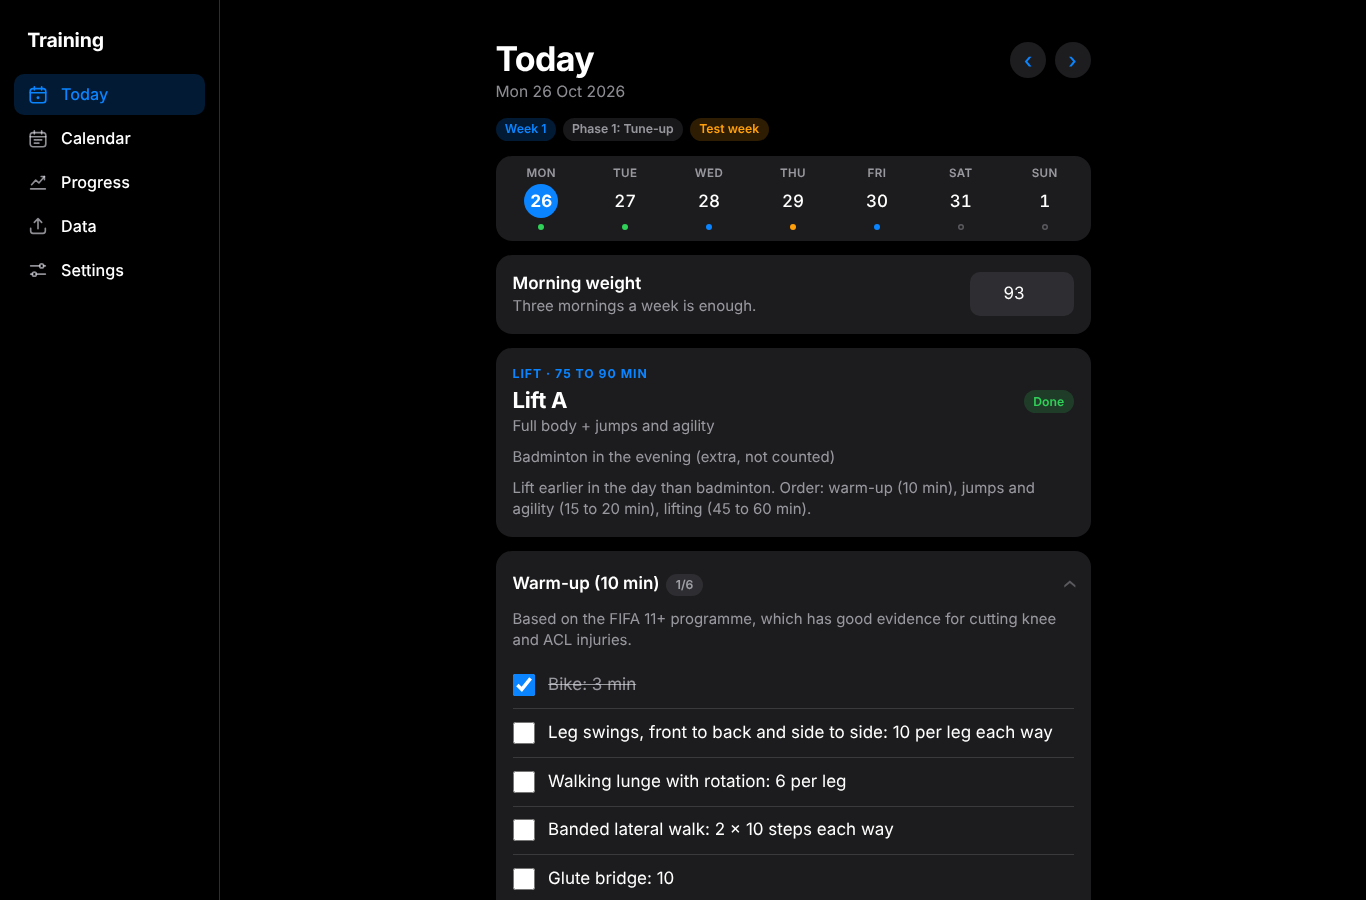
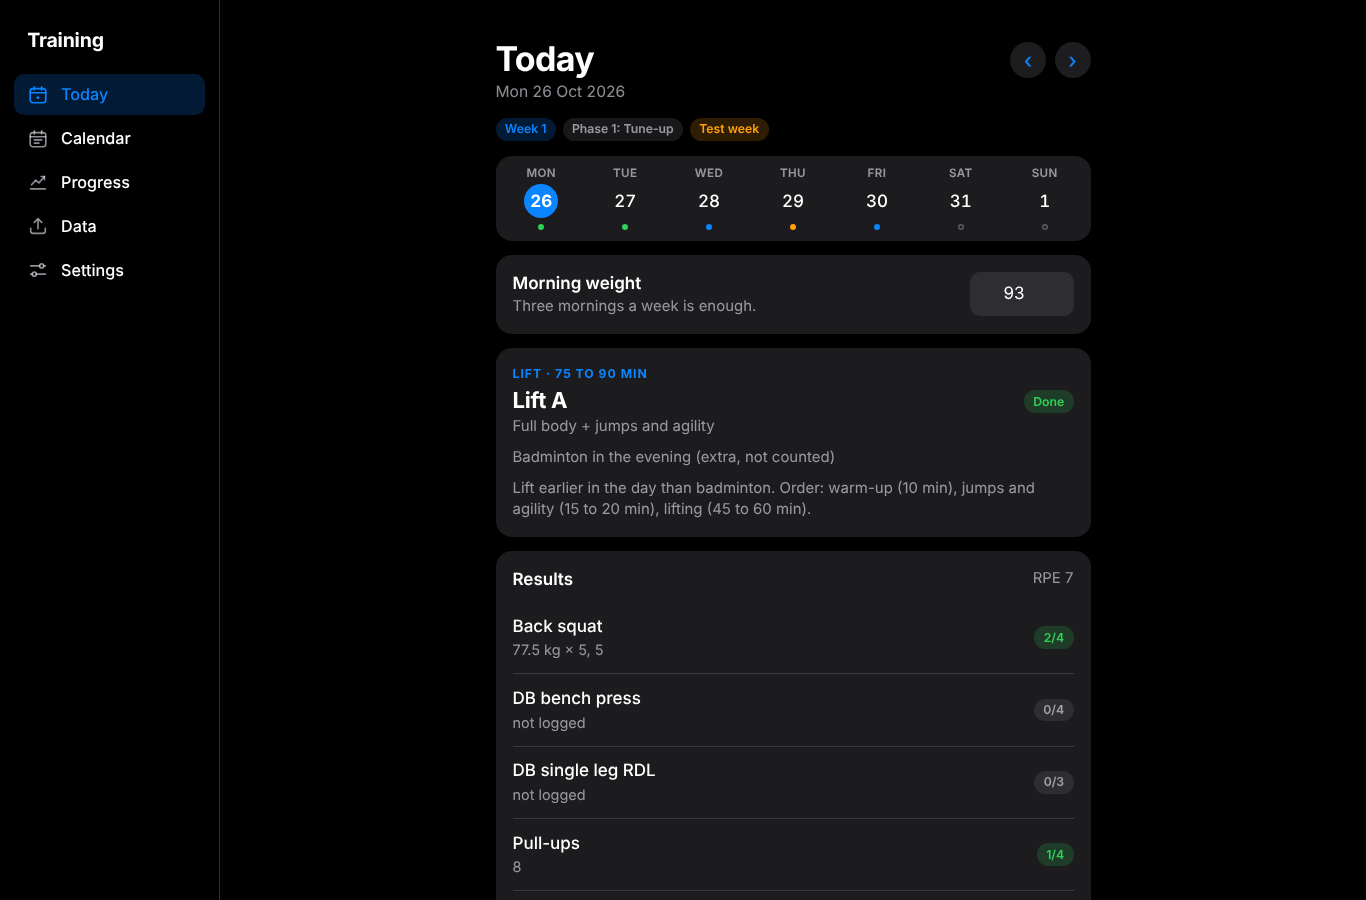
Start, log, finish and edit lifting workouts
A lifting day opens as an overview: the plan with targets and last
time's numbers, plus a Start workout button. Starting the workout
records started_at and switches to logging with a running workout
timer next to the rest timer. Finish workout stores finished_at and
the duration and shows a results summary per lift; Edit workout
reopens logging for corrections and Done editing returns to the
summary.

Ticks now toggle: unticking keeps the numbers but marks the set as a
draft (done 0). Typing saves a draft without ticking, so a half-typed
set survives a reload. Server-side queries only count done sets.

The browser test cleans up the test day first and checks the whole
flow, including untick persistence and the summary.

Claude-Session: https://claude.ai/code/session_01MEVMmuCGieuXpFXdC3wJAt

diff --git a/public/js/views/today.js b/public/js/views/today.js
@@ -46,6 +46,7 @@ class DayView {
     this.rows = {};
     this.lastTick = null;
     this.timer = null;
+    this.editing = false; // a finished workout opened for corrections
     this.initRows();
     this.saveWorkoutDebounced = debounce((patch) => this.saveWorkout(patch), 600);
   }
@@ -57,7 +58,7 @@ class DayView {
     this.rows = {};
     for (const e of this.plan) {
       const existing = sets.filter((s) => s.exercise_key === e.key).sort((a, b) => a.set_index - b.set_index || a.id - b.id);
-      const rows = existing.map((s) => ({ client_id: s.client_id, set_index: s.set_index, kg: s.weight_kg, reps: s.reps, seconds: s.seconds, meters: s.distance_m, saved: true }));
+      const rows = existing.map((s) => ({ client_id: s.client_id, set_index: s.set_index, kg: s.weight_kg, reps: s.reps, seconds: s.seconds, meters: s.distance_m, saved: isDone(s), touched: true }));
       while (rows.length < e.sets) rows.push({ client_id: uuid(), set_index: rows.length, kg: null, reps: null, seconds: null, meters: null, saved: false });
       this.rows[e.key] = rows;
     }
@@ -67,7 +68,7 @@ class DayView {
       this.rows[s.exercise_key] = [];
     }
     for (const s of sets) if (!this.rows[s.exercise_key].some((r) => r.client_id === s.client_id)) {
-      this.rows[s.exercise_key].push({ client_id: s.client_id, set_index: s.set_index, kg: s.weight_kg, reps: s.reps, seconds: s.seconds, meters: s.distance_m, saved: true });
+      this.rows[s.exercise_key].push({ client_id: s.client_id, set_index: s.set_index, kg: s.weight_kg, reps: s.reps, seconds: s.seconds, meters: s.distance_m, saved: isDone(s), touched: true });
     }
   }
 
@@ -93,20 +94,22 @@ class DayView {
     store.set(`ft_day_${this.date}`, d);
   }
 
+  // Every row with a value, ticked or draft (done 0). Used for the cache and for rebuilding rows.
   allSets() {
     const out = [];
-    for (const [key, rows] of Object.entries(this.rows)) for (const r of rows) if (r.saved) out.push({ client_id: r.client_id, exercise_key: key, set_index: r.set_index, weight_kg: r.kg, reps: r.reps, seconds: r.seconds, distance_m: r.meters });
+    for (const [key, rows] of Object.entries(this.rows)) for (const r of rows) if (r.saved || r.touched) out.push({ client_id: r.client_id, exercise_key: key, set_index: r.set_index, weight_kg: r.kg, reps: r.reps, seconds: r.seconds, distance_m: r.meters, done: r.saved ? 1 : 0 });
     return out;
   }
+  doneSets() { return this.allSets().filter((s) => s.done); }
 
   async saveSet(key, row) {
     const ex = exerciseFor(key);
     const hasValue = ex.fields.some((f) => row[f] != null && row[f] !== "");
     if (!hasValue) return;
-    row.saved = true;
-    this.lastTick = Date.now();
+    row.touched = true;
+    if (row.saved) this.lastTick = Date.now();
     this.refreshCache();
-    const body = { date: this.date, template_key: this.templateKey, exercise_key: key, set_index: row.set_index, weight_kg: row.kg, reps: row.reps, seconds: row.seconds, distance_m: row.meters, done: 1 };
+    const body = { date: this.date, template_key: this.templateKey, exercise_key: key, set_index: row.set_index, weight_kg: row.kg, reps: row.reps, seconds: row.seconds, distance_m: row.meters, done: row.saved ? 1 : 0 };
     const r = await queuedWrite("PUT", `/api/sets/${row.client_id}`, body, `set:${row.client_id}`);
     if (r.ok && r.data && r.data.workout_id && !this.workout) {
       this.workout = { id: r.data.workout_id, template_key: this.templateKey, status: "in_progress", sets: [] };
@@ -119,7 +122,7 @@ class DayView {
     const rows = this.rows[key];
     rows.splice(rows.indexOf(row), 1);
     rows.forEach((r, i) => (r.set_index = i));
-    if (row.saved) {
+    if (row.saved || row.touched) {
       this.refreshCache();
       try { await api.del(`/api/sets/${row.client_id}`); } catch (e) { toast(e.message, true); }
     }
@@ -205,9 +208,10 @@ class DayView {
 
   statusBadge() {
     const st = this.workout ? this.workout.status : null;
-    const logged = this.allSets().length;
+    const logged = this.doneSets().length;
     if (st === "done") return h("span", { class: "badge ok" }, "Done");
     if (st === "skipped") return h("span", { class: "badge danger" }, "Skipped");
+    if (this.template.kind === "lift") return this.workout && this.workout.started_at ? h("span", { class: "badge accent" }, "In progress") : h("span", { class: "badge" }, "Not started");
     if (logged || (this.workout && this.workout.time_sec)) return h("span", { class: "badge accent" }, "In progress");
     return h("span", { class: "badge" }, "Not started");
   }
@@ -226,17 +230,83 @@ class DayView {
     if (this.day.moved && this.templateKey === this.day.templateKey) head.appendChild(h("p", { class: "muted small" }, `The plan has ${templateFor(this.day.defaultTemplateKey).name} today. You moved it.`));
     for (const x of this.day.extras || []) if (this.templateKey === this.day.templateKey) head.appendChild(h("p", { class: "muted small" }, x));
     if (t.kind === "lift") {
+      const mode = this.mode();
       if (t.tips && t.tips.length) head.appendChild(h("p", { class: "tips" }, t.tips.join(" ")));
-      cards.push(head, ...this.liftCards());
-    } else if (t.kind === "run" || t.kind === "other") {
-      this.runBody(head);
-      cards.push(head);
-    } else {
-      this.restBody(head);
-      cards.push(head);
+      if (mode === "overview") {
+        head.appendChild(h("button", { class: "btn primary wide", style: { marginTop: ".9rem" }, onClick: () => this.startWorkout() }, "Start workout"));
+        cards.push(head, this.planCard(), this.actionsCard());
+      } else if (mode === "log") {
+        head.appendChild(h("div", { class: "timer-row", dataset: { timer: "1" } }));
+        cards.push(head, ...this.liftCards(), this.finishCard(), this.actionsCard());
+      } else {
+        cards.push(head, ...this.summaryCards(), this.actionsCard());
+      }
+      return cards;
     }
-    cards.push(this.finishCard());
-    cards.push(this.actionsCard());
+    if (t.kind === "run" || t.kind === "other") this.runBody(head); else this.restBody(head);
+    cards.push(head, this.finishCard(), this.actionsCard());
+    return cards;
+  }
+
+  // overview: nothing started yet. log: started, or a finished workout opened for edits. summary: finished.
+  mode() {
+    const w = this.workout;
+    if (w && w.status === "done") return this.editing ? "log" : "summary";
+    if (w && (w.started_at || (w.sets || []).length)) return "log";
+    return "overview";
+  }
+
+  async startWorkout() {
+    const r = await this.saveWorkout({ status: "in_progress", started_at: new Date().toISOString() });
+    if (!r.ok && !r.queued) return;
+    if (!this.workout) this.workout = { template_key: this.templateKey, status: "in_progress", sets: [] };
+    this.workout.started_at = this.workout.started_at || new Date().toISOString();
+    this.refreshCache();
+    toast("Workout started");
+    this.render();
+    window.scrollTo({ top: 0 });
+  }
+
+  // What the session holds, without any inputs.
+  planCard() {
+    const t = this.template;
+    const card = h("div", { class: "card" });
+    card.appendChild(h("div", { class: "card-title" }, h("h3", null, "Plan"), h("span", { class: "muted small" }, `${this.plan.length} lifts`)));
+    const list = h("div", null);
+    const row = (title, sub, extra) => list.appendChild(h("div", { class: "list-item" }, h("div", null, h("div", { class: "title" }, title), sub ? h("div", { class: "sub" }, sub) : null), extra ? h("span", { class: "muted small" }, extra) : null));
+    if (t.blocks.includes("warmup")) row(PROGRAM.warmup.title, `${PROGRAM.warmup.items.length} drills`, `${PROGRAM.warmup.minutes} min`);
+    if (t.blocks.includes("jumps")) row(`${PROGRAM.jumps.title}, phase ${this.day.phase}`, (PROGRAM.jumps.byPhase[this.day.phase] || []).map((j) => j.name).join(", "), `${PROGRAM.jumps.minutes} min`);
+    for (const e of this.plan) {
+      const ex = exerciseFor(e.key);
+      const last = this.data.last[e.key];
+      const target = e.sets ? `${e.sets} × ${e.reps}${e.sets !== e.plannedSets && e.plannedSets ? " (deload)" : ""}` : "";
+      row(ex.name, [target, last ? `last ${describeSets(ex, last.sets)}` : e.startKg ? `start around ${e.startKg} kg` : null].filter(Boolean).join(" · "));
+    }
+    if (t.blocks.includes("finisher") && t.finisher) row(t.finisher.title, t.finisher.text, `${t.finisher.minutes} min`);
+    card.appendChild(list);
+    return card;
+  }
+
+  // Finished workout: results per lift, duration, notes, and a way back in to fix mistakes.
+  summaryCards() {
+    const w = this.workout;
+    const cards = [];
+    const card = h("div", { class: "card" });
+    const dur = w.duration_min || minutesBetween(w.started_at, w.finished_at);
+    card.appendChild(h("div", { class: "card-title" }, h("h3", null, "Results"), h("span", { class: "muted small" }, [dur ? `${dur} min` : null, w.rpe ? `RPE ${w.rpe}` : null].filter(Boolean).join(" · "))));
+    const done = this.doneSets();
+    const list = h("div", null);
+    for (const e of this.plan) {
+      const ex = exerciseFor(e.key);
+      const sets = done.filter((s) => s.exercise_key === e.key).sort((a, b) => a.set_index - b.set_index);
+      list.appendChild(h("div", { class: "list-item" }, h("div", null, h("div", { class: "title" }, ex.name), h("div", { class: "sub" }, sets.length ? describeSets(ex, sets) : "not logged")), h("span", { class: `badge ${sets.length ? "ok" : ""}` }, `${sets.length}${e.sets ? `/${e.sets}` : ""}`)));
+    }
+    card.appendChild(list);
+    const blocks = ["warmup", "jumps", "finisher"].filter((b) => this.template.blocks.includes(b) && this.checklist[b]);
+    if (blocks.length) card.appendChild(h("p", { class: "muted small", style: { margin: ".8rem 0 0" } }, blocks.map((b) => `${b === "warmup" ? "Warm-up" : b === "jumps" ? "Jumps" : "Finisher"} ${Object.values(this.checklist[b]).filter(Boolean).length} ticked`).join(" · ")));
+    if (w.notes) card.appendChild(h("p", { style: { margin: ".8rem 0 0" } }, w.notes));
+    card.appendChild(h("button", { class: "btn tinted wide", style: { marginTop: "1rem" }, onClick: () => { this.editing = true; this.render(); } }, "Edit workout"));
+    cards.push(card);
     return cards;
   }
 
@@ -309,7 +379,7 @@ class DayView {
       h("button", { class: "btn text muted", onClick: async () => {
         const row = rows[rows.length - 1];
         if (!row) return;
-        if (row.saved && !confirm("Remove the last logged set?")) return;
+        if ((row.saved || row.touched) && !confirm("Remove the last logged set?")) return;
         await this.deleteSet(e.key, row);
         rowsEl.lastChild && rowsEl.removeChild(rowsEl.lastChild);
       } }, "Remove set")));
@@ -346,6 +416,14 @@ class DayView {
       rowEl.appendChild(h("div", { class: "cell" }, inp, h("span", { class: "unit" }, FIELD_META[f].label)));
     }
     tick.addEventListener("click", () => {
+      if (row.saved) {
+        // Untick: keep the numbers, mark the set as not done.
+        row.saved = false;
+        tick.classList.remove("done");
+        save.flush();
+        this.updateStatusBadge();
+        return;
+      }
       // Empty fields take the placeholder (last time or previous set), then the set is saved.
       for (const f of fields) {
         if (row[f] == null || row[f] === "") {
@@ -354,6 +432,7 @@ class DayView {
         }
       }
       if (!fields.some((f) => row[f] != null && row[f] !== "")) { toast("Type the numbers first"); return; }
+      row.saved = true;
       save.flush();
       tick.classList.add("done");
       // Update placeholders of the next row.
@@ -533,9 +612,10 @@ class DayView {
     const ta = h("textarea", { placeholder: "How it felt, knees, anything for later", value: (this.workout && this.workout.notes) || "" });
     ta.addEventListener("input", () => this.saveWorkoutDebounced({ notes: ta.value }));
     card.appendChild(h("label", { class: "field" }, h("span", null, "Notes"), ta));
-    if (st !== "done") card.appendChild(h("button", { class: "btn primary wide", onClick: () => this.finishDialog() }, this.template.kind === "rest" ? "Mark day done" : "Finish session"));
+    if (st !== "done") card.appendChild(h("button", { class: "btn primary wide", onClick: () => this.finishDialog() }, this.template.kind === "rest" ? "Mark day done" : this.template.kind === "lift" ? "Finish workout" : "Finish session"));
+    else if (this.template.kind === "lift") card.appendChild(h("button", { class: "btn primary wide", onClick: () => { this.editing = false; this.render(); window.scrollTo({ top: 0 }); } }, "Done editing"));
     else card.appendChild(h("button", { class: "btn wide", onClick: async () => { await this.saveWorkout({ status: "in_progress" }); this.render(); } }, "Reopen session"));
-    card.appendChild(h("div", { class: "timer", dataset: { timer: "1" }, style: { marginTop: ".6rem", textAlign: "center" } }));
+    if (this.template.kind !== "lift") card.appendChild(h("div", { class: "timer", dataset: { timer: "1" }, style: { marginTop: ".6rem", textAlign: "center" } }));
     return card;
   }
 
@@ -555,20 +635,26 @@ class DayView {
 
   finishDialog() {
     let rpe = this.workout && this.workout.rpe ? this.workout.rpe : null;
-    const sets = this.allSets();
+    const sets = this.doneSets();
     const volume = sets.reduce((s, x) => s + (x.weight_kg || 0) * (x.reps || 0), 0);
+    const elapsed = this.workout && this.workout.started_at && this.workout.status !== "done" ? minutesBetween(this.workout.started_at, new Date().toISOString()) : null;
     const rpeRow = h("div", { class: "rpe" });
     for (let i = 1; i <= 10; i++) rpeRow.appendChild(h("button", { class: rpe === i ? "active" : "", onClick: (ev) => { rpe = i; rpeRow.querySelectorAll("button").forEach((b) => b.classList.toggle("active", b === ev.currentTarget)); } }, String(i)));
     const content = h("div", null,
-      this.template.kind === "lift" ? h("p", { class: "muted" }, `${sets.length} sets logged${volume ? `, ${Math.round(volume)} kg total volume` : ""}.`) : null,
+      this.template.kind === "lift" ? h("p", { class: "muted" }, `${sets.length} sets logged${volume ? `, ${Math.round(volume)} kg total volume` : ""}${elapsed ? `, ${elapsed} min` : ""}.`) : null,
       h("div", { class: "field" }, h("span", null, "How hard was it? (1 easy, 10 all out)"), rpeRow));
     modal({
-      title: "Finish session", content,
+      title: this.template.kind === "lift" ? "Finish workout" : "Finish session", content,
       actions: [
         { label: "Cancel", class: "ghost" },
         { label: "Done", class: "primary", onClick: async () => {
           const patch = { status: "done" };
           if (rpe) patch.rpe = rpe;
+          if (this.workout && this.workout.started_at && this.workout.status !== "done") {
+            patch.finished_at = new Date().toISOString();
+            patch.duration_min = minutesBetween(this.workout.started_at, patch.finished_at);
+          }
+          this.editing = false;
           await this.saveWorkout(patch);
           if (this.template.timeTrial && this.workout && this.workout.time_sec && this.workout.distance_km >= 4.9 && this.workout.distance_km <= 5.3) {
             await queuedWrite("PUT", "/api/tests", { date: this.date, test_key: "five_k_sec", value: this.workout.time_sec }, `test:${this.date}:five_k_sec`);
@@ -640,11 +726,25 @@ class DayView {
     this.timer = setInterval(() => {
       const el = this.container.querySelector("[data-timer]");
       if (!el) return;
-      if (!this.lastTick) { el.textContent = ""; return; }
-      const s = Math.round((Date.now() - this.lastTick) / 1000);
-      el.textContent = `Rest since last set: ${secondsToHms(s)}`;
+      const parts = [];
+      const w = this.workout;
+      if (w && w.started_at && w.status !== "done") parts.push(`Workout ${secondsToHms(Math.max(0, (Date.now() - parseWhen(w.started_at)) / 1000))}`);
+      if (this.lastTick) parts.push(`Rest ${secondsToHms(Math.round((Date.now() - this.lastTick) / 1000))}`);
+      el.textContent = parts.join(" · ");
     }, 1000);
   }
+}
+
+function isDone(s) { return s.done == null ? true : Number(s.done) !== 0; }
+function parseWhen(v) {
+  if (!v) return NaN;
+  const d = new Date(/[TZ]/.test(v) ? v : v.replace(" ", "T") + "Z");
+  return d.getTime();
+}
+function minutesBetween(a, b) {
+  const x = parseWhen(a), y = parseWhen(b);
+  if (isNaN(x) || isNaN(y) || y < x) return null;
+  return Math.max(1, Math.round((y - x) / 60000));
 }
 
 function buildPlanFor(templateKey, week) {

diff --git a/src/api.js b/src/api.js
@@ -260,9 +260,9 @@ async function lastSetsFor(env, keys, beforeDate) {
     env.DB.prepare(
       `SELECT s.exercise_key, s.set_index, s.weight_kg, s.reps, s.seconds, s.distance_m, s.rpe, w.date, w.id AS workout_id
        FROM sets s JOIN workouts w ON w.id = s.workout_id
-       WHERE s.exercise_key = ? AND w.date < ? AND w.id = (
+       WHERE s.exercise_key = ? AND s.done = 1 AND w.date < ? AND w.id = (
          SELECT w2.id FROM workouts w2 JOIN sets s2 ON s2.workout_id = w2.id
-         WHERE s2.exercise_key = ? AND w2.date < ? ORDER BY w2.date DESC, w2.id DESC LIMIT 1)
+         WHERE s2.exercise_key = ? AND s2.done = 1 AND w2.date < ? ORDER BY w2.date DESC, w2.id DESC LIMIT 1)
        ORDER BY s.set_index, s.id`
     ).bind(k, beforeDate, k, beforeDate)
   );

diff --git a/src/db.js b/src/db.js
@@ -60,7 +60,7 @@ export async function ensureWorkout(env, date, templateKey, settings) {
   const plan = buildPlan(templateKey, day.week);
   await env.DB.prepare(
     `INSERT INTO workouts (date, template_key, kind, status, week_no, phase, plan_json, started_at)
-     VALUES (?, ?, ?, 'in_progress', ?, ?, ?, datetime('now'))`
+     VALUES (?, ?, ?, 'in_progress', ?, ?, ?, NULL)`
   ).bind(date, templateKey, t.kind, day.week, day.phase, plan.length ? JSON.stringify(plan) : null).run();
   return env.DB.prepare("SELECT * FROM workouts WHERE date = ? AND template_key = ?").bind(date, templateKey).first();
 }

diff --git a/public/css/app.css b/public/css/app.css
@@ -292,3 +292,5 @@ details summary::-webkit-details-marker { display: none; }
 details summary::after { content: "›"; color: var(--muted-2); font-size: 1.4rem; font-weight: 400; transform: rotate(90deg); transition: transform .15s; line-height: 1; }
 details[open] summary::after { transform: rotate(-90deg); }
 details summary .badge { margin-left: .4rem; }
+.timer-row { margin-top: .8rem; padding-top: .7rem; border-top: 1px solid var(--sep); font-variant-numeric: tabular-nums; font-weight: 600; color: var(--accent); min-height: 1.4em; }
+.timer-row:empty { display: none; }
